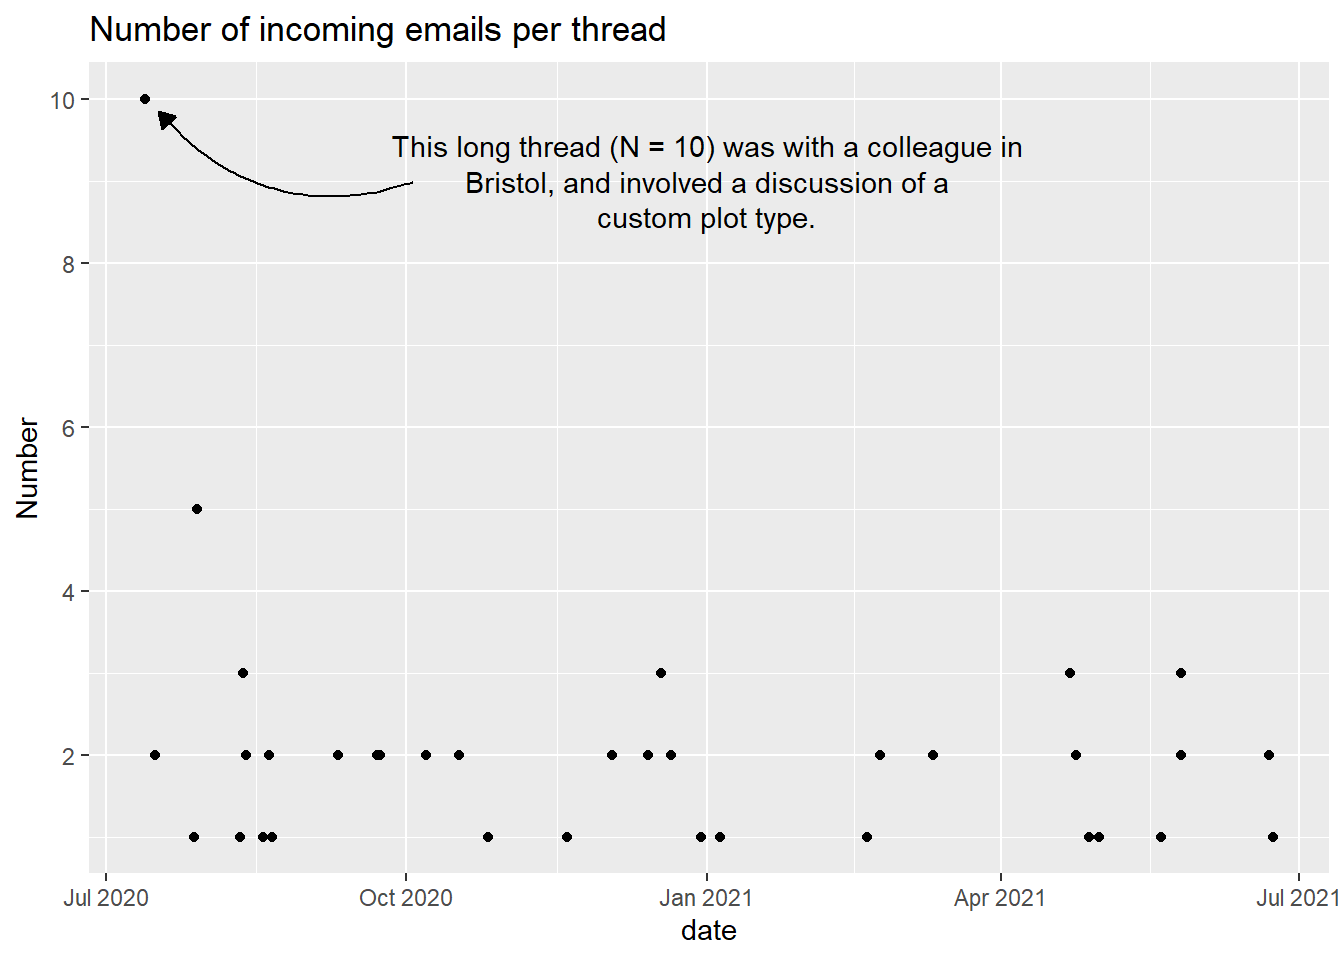
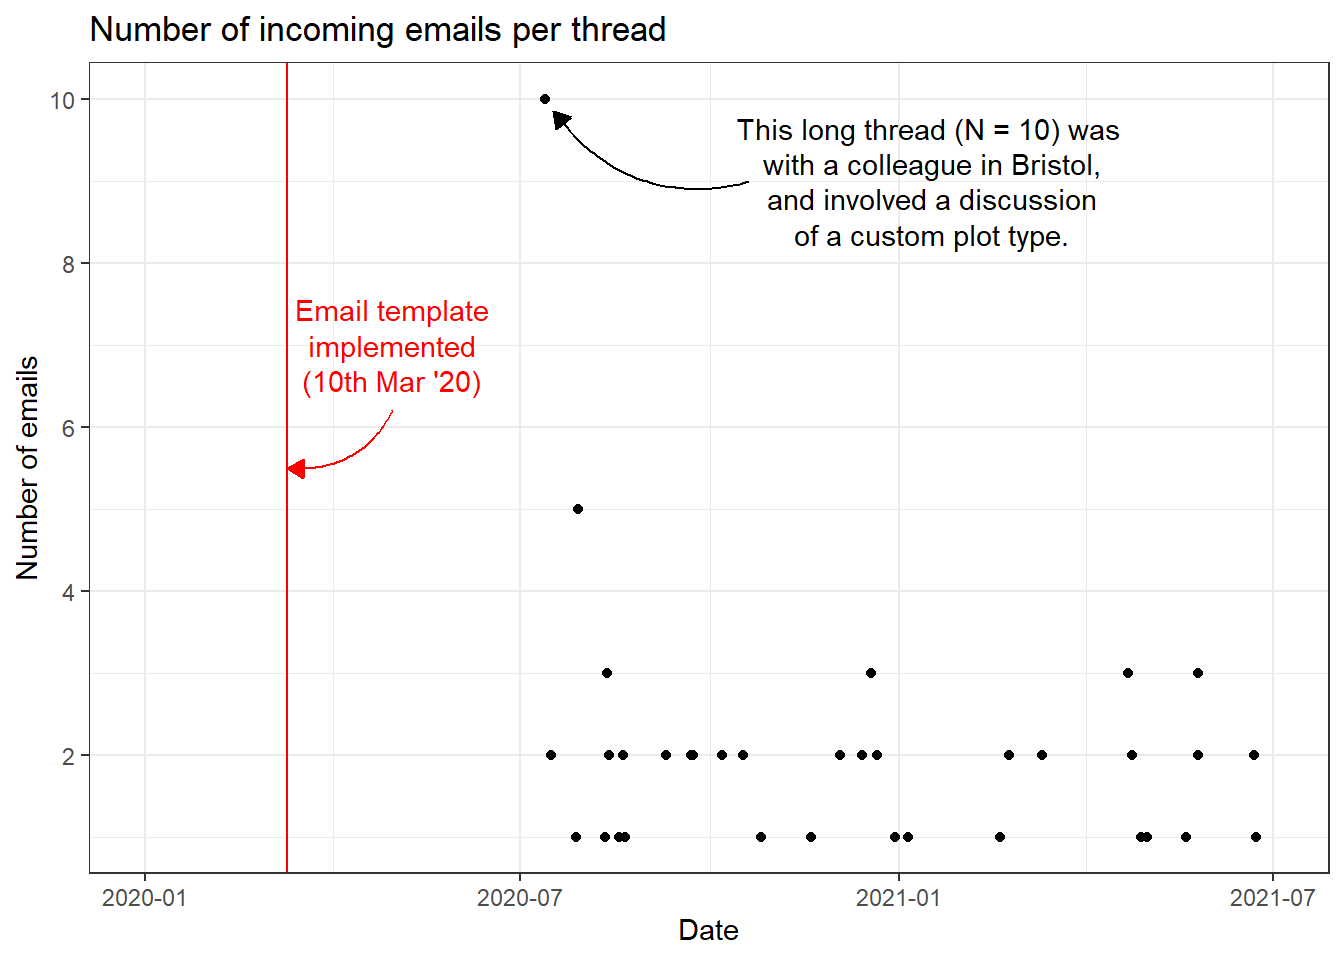
Updates to email post

diff --git a/content/post/2021-07-11-working-with-emails/index.html b/content/post/2021-07-11-working-with-emails/index.html
@@ -15,8 +15,7 @@ meta: yes
 <script src="index_files/header-attrs/header-attrs.js"></script>
 
 
-<p>As part of my maintenance of the <code>robvis</code> R package, I regularly receive emails from users of the Shiny app version of the tool.<span class="sidenote-number"></span><span class="sidenote">See <a href = "https://mcguinlu.shinyapps.io/robvis/">here</a>.</span></p>
-<p>One of the main issues I encounter when dealing with these emails is that the initial email does not usually contain all the information I need to help the user (e.g. what data file caused the issues), and so I end up replying requesting this basic information.</p>
+<p>As part of my maintenance of the <code>robvis</code> R package, I regularly receive emails from users of the Shiny app version of the tool.<span class="sidenote-number"></span><span class="sidenote">See <a href = "https://mcguinlu.shinyapps.io/robvis/">here</a>.</span> One of the main issues I encounter when dealing with these emails is that the initial email does not usually contain all the information I need to help the user (e.g. what data file caused the issue), and so I end up replying to request this basic information.</p>
 <p>To try and head this issue off at the pass, I implemented a email template in March 2020, so that when users click the “Email me!” button on the Shiny app, an email is created and pre-populated with the following text:</p>
 <pre class="text"><code>
 This is a template to help me fix your issue as quickly as possible. Please make sure you:
@@ -27,15 +26,16 @@ Thanks,
 
 Luke
 </code></pre>
-<p>I recently had the idea to explore whether this email template was actually helping in terms of my workload, by comparing the total number of emails in threads related to the <code>robvis</code> grouped by whether the thread occurred before or after the email template was implemented.<span class="sidenote-number"></span><span class="sidenote">Commonly known as a “before-and-after study”. See <a href="https://www.bmj.com/content/349/bmj.g5074">here</a>.</span></p>
-<p>If the template does help, you would expect threads after March 2020 to contain a smaller number of emails, as it would remove the need for my initial email requesting the necessary data and the user’s response to this request.</p>
-<p>I recently have become quite good at labelling emails related to the different R packages I maintain and moving them to a dedicated Outlook subfolder. As such, I was able to follow a very helpful tutorial to export the <code>robvis</code> Outlook folder to a CSV file,<span class="sidenote-number"></span><span class="sidenote">See <a href = "https://everydayanalytics.ca/2013/11/how-to-export-your-outlook-inbox-to-csv-for-data-analysis.html">here</a>.</span> making sure to use the Outlook-&gt;Access-&gt;CSV route, so that the final dataset contained information on the date/time of each email. Once imported, I cleaned the data using the following chain:</p>
+<p>Following some reading on self-evaluation/self-experimentation, I had the idea to explore whether this email template was actually helping in terms of my workload by comparing the total number of emails in threads related to the <code>robvis</code> grouped by whether the thread occurred before or after the email template was implemented.<span class="sidenote-number"></span><span class="sidenote">Commonly known as a “before-and-after study”. See <a href="https://www.bmj.com/content/349/bmj.g5074">here</a>.</span> My hypothesis was that if the template was indeed encouraging people to provide the info I needed to help them right off the bat, threads after March 2020 should contain a smaller total number of emails.</p>
+<p>I recently have become quite good at labelling emails related to the different R packages I maintain and moving them to dedicated Outlook subfolders. As such, I was able to follow a very helpful tutorial to export the relevant <code>robvis</code> Outlook folder to a CSV file,<span class="sidenote-number"></span><span class="sidenote">See <a href = "https://everydayanalytics.ca/2013/11/how-to-export-your-outlook-inbox-to-csv-for-data-analysis.html">here</a>.</span> making sure to use the Outlook-&gt;Access-&gt;CSV route so that the final dataset contained information on the date/time of each email. Once imported, I cleaned the data using the following chain:</p>
 <pre class="r"><code>library(dplyr)
 
 df &lt;-
+  # Read in the data
   read.csv(&quot;robvis_emails.csv&quot;,
            stringsAsFactors = F,
            header = F) %&gt;%
+  
   # Rename the v. unhelpful variable names and select the relevant ones
   rename(
     date = V15,
@@ -45,19 +45,24 @@ df &lt;-
     subject_normalised = V19
   ) %&gt;%
   select(date, sender, subject, subject_normalised, text) %&gt;%
-  # Remove the weird forwarding
-  mutate(subject_normalised = stringr::str_replace(subject_normalised, &quot;Antw: RE: &quot;, &quot;&quot;)) %&gt;%
-  # Convert dates and trim character variables
+  
+  # Remove the weird forwarding syntax in one email
+  mutate(subject_normalised = stringr::str_replace(subject_normalised,
+                                                   &quot;Antw: RE: &quot;,
+                                                   &quot;&quot;)) %&gt;%
+  
+  # Format dates and trim character variables
   mutate(date = as.Date(date, &quot;%d/%m/%Y %H:%M:%S&quot;)) %&gt;%
   mutate_if(is.character, stringr::str_trim) %&gt;%
+  
   # Group by sender/subject and get count and first date by group
   group_by(sender, subject_normalised) %&gt;%
-  summarise(Number = n(), date = min(date)) %&gt;%
+  summarise(Number = n(), Date = min(date)) %&gt;%
   ungroup()</code></pre>
 <p>One interesting thing I noticed is that, because of the way Outlook works, only the incoming emails (i.e. those sent to my email) in each thread are counted. As a result, several threads appear to only have a single email in them, but in reality, the users emailed me, I emailed them back and then never heard from them again. I <em>think</em> this is because Outlook deals with incoming messages and sent messages differently, but I’m not 100% sure.</p>
-<p>I then quickly plotted the data to have a look at the date range it covered.</p>
+<p>I then quickly plotted the data to have a look at the date range it covered:</p>
 <p><label for="tufte-mn-" class="margin-toggle">⊕</label><input type="checkbox" id="tufte-mn-" class="margin-toggle"><span class="marginnote">I used the <code>ggannotate</code> widget to help create the annotations for this plot.</span></p>
 <p><img src="index_files/figure-html/unnamed-chunk-4-1.png" width="672" /></p>
-<p>As it happens, I apparently only started adding emails to the <code>robvis</code> Outlook subfolder after July 2020. As the email template was implemented in March 2020, my plan to do a before-and-after comparison to see if it had any impact on the number of emails in each thread was scuppered.</p>
-<p>I could always go back through my emails from before July 2020 and categorise them appropriately, or alternatively, import my entire inbox and come up with a data cleaning plan that would extract the relevant emails. However, as this was intended as a quick exercise, I decided to park the analysis.</p>
-<p>Still, it gave me an excuse to work with email data in R, so not a total loss!</p>
+<p>As illustrated in the figure, I apparently only started adding emails to the <code>robvis</code> Outlook subfolder after July 2020. As the email template was implemented in March 2020, my plan to do a before-and-after comparison to see if it had any impact on the number of emails in each thread was scuppered.</p>
+<p>I could always go back through my emails from before July 2020 and categorise them appropriately, or alternatively, import my entire inbox and come up with a data cleaning plan that would extract the relevant emails. However, as this was intended as a quick exercise, I decided to park the analysis and move on to something else.</p>
+<p>Still, it gave me an excuse to work with email data in R and practice annotating <code>ggplot2 figures</code>, so not a total loss!</p>
